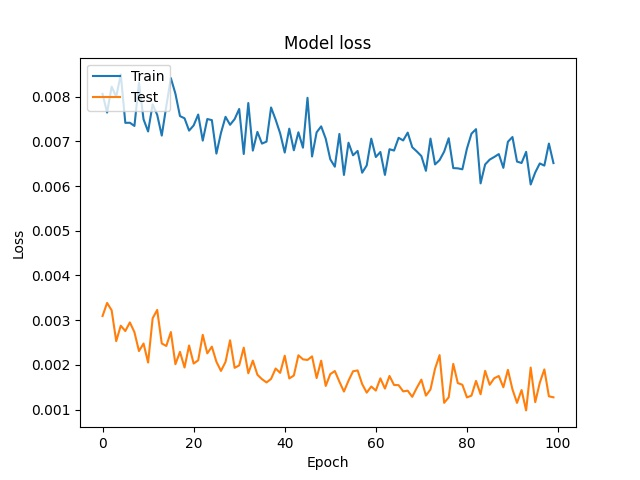
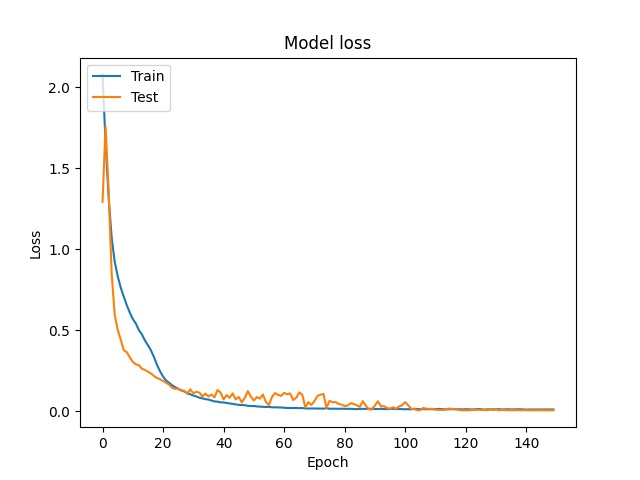
sync

diff --git a/PACT_Dual_SoS_Segmentation/network.py b/PACT_Dual_SoS_Segmentation/network.py
@@ -61,7 +61,7 @@ def unet(
     return Model(inputs=input, outputs=output)
 
 
-def unet_with_denses(img_shape=(512, 384, 1),
+def unet_with_dense(img_shape=(512, 384, 1),
                      out_ch=1, start_ch=64, depth=4, inc_rate=2., activation='relu',
                      dropout=0.5, batchnorm=False, maxpool=True, upconv=True,
                      residual=False, padding='same'):
@@ -165,12 +165,12 @@ def cnn_dense(img_shape=(256, 192, 1),
     conv3 = conv_block(maxpool2, start_ch * 4, activation,
                        batchnorm, residual, dropout, padding)
     maxpool3 = MaxPooling2D()(conv3)
-    dense3 = dense_link(maxpool3, activation, dropout, 96, 48)
+    dense3 = dense_link(maxpool3, activation, dropout, 192, 48)
 
     conv4 = conv_block(maxpool3, start_ch * 8, activation,
                        batchnorm, residual, dropout, padding)
     maxpool4 = MaxPooling2D()(conv4)
-    dense4 = dense_link(maxpool4, activation, dropout, 48, 24)
+    dense4 = dense_link(maxpool4, activation, dropout, 192, 24)
 
     up_dense4 = UpSampling1D(size=2)(dense4)
     concat3 = Concatenate(axis=2)([up_dense4, dense3])
@@ -204,7 +204,7 @@ def cnn_dense(img_shape=(256, 192, 1),
     concat1 = BatchNormalization()(concat1)
     concat1 = LeakyReLU()(concat1)
 
-    output = Conv1D(out_ch, 1, activation='tanh')(concat1)
+    output = Conv1D(out_ch, 1)(concat1)
     return Model(inputs=input, outputs=output)
 
 '''

diff --git a/PACT_Dual_SoS_Segmentation/train.py b/PACT_Dual_SoS_Segmentation/train.py
@@ -9,16 +9,14 @@ import os
 
 # Basic configuration
 bs = 32
-saved_model = './saved_model/unet2'
-best_checkpoint = './saved_model/unet2'
-figure_path = './figure/unet2 - Model loss.jpg'
+saved_model = './saved_model/unet_dense_2'
+best_checkpoint = './saved_model/unet_dense_2_best'
+figure_path = './figure/unet_dense_2 - Model loss.jpg'
 
 if not os.path.exists(saved_model):
     os.mkdir(saved_model)
 if not os.path.exists(best_checkpoint):
     os.mkdir(best_checkpoint)
-if not os.path.exists(figure_path):
-    os.mkdir(figure_path)
 
 # import data
 
@@ -29,11 +27,13 @@ validset_loader = data_io.ImageDataGenerator(batch_size=bs, mode='valid')
 
 print("Training for a new UNet model:")
 
-model = network.unet(img_shape=(256, 192, 1), batchnorm=True)
+model = network.unet_with_dense(img_shape=(256, 192, 1), batchnorm=True)
 plot_model(model, show_shapes=True)
 model.summary()
 model.compile(loss=BinaryCrossentropy(from_logits=False),
               optimizer=optim.Adam(learning_rate=0.0001))
+#model.compile(loss=MeanSquaredError(),
+#              optimizer=optim.Adam(learning_rate=0.0001))
 
 reduce_lr = ReduceLROnPlateau(
     verbose=1, factor=0.1, min_delta=0.001, monitor='val_loss', patience=15,

diff --git a/PACT_Dual_SoS_Segmentation/data_io.py b/PACT_Dual_SoS_Segmentation/data_io.py
@@ -124,7 +124,7 @@ class ImageDataGenerator2(Sequence):
             gt = np.array([np.where(row == 1)[0][0] for row in gt])
             gt = (gt - 127.5) / 127.5
 
-            # inputs.append(np.array(img))
+            inputs.append(np.array(img))
             targets.append(np.array(gt))
         return np.expand_dims(np.array(inputs), axis=-1), np.array(targets)
 
